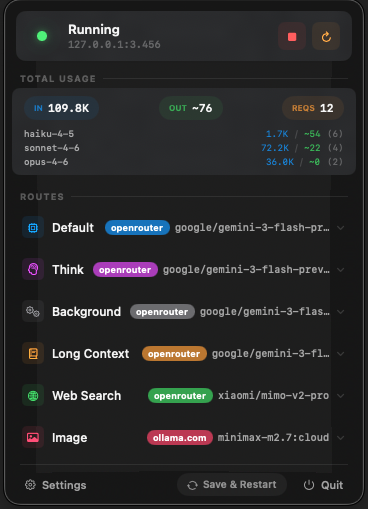
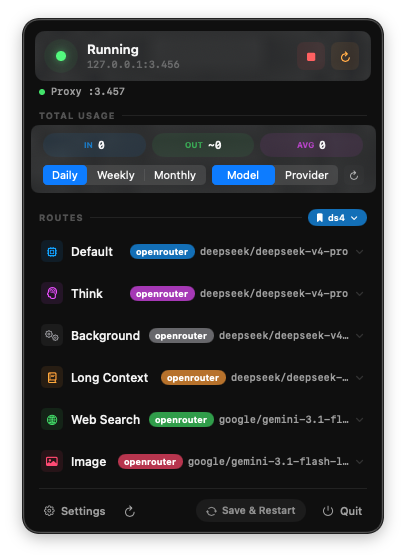
docs: refresh app screenshots

diff --git a/docs/index.html b/docs/index.html
@@ -91,8 +91,13 @@
     <!-- Visual Showcase -->
     <section class="pb-24 px-6 overflow-hidden">
         <div class="max-w-5xl mx-auto">
-            <div class="relative rounded-2xl shadow-2xl border border-gray-100 overflow-hidden bg-apple-light p-4 md:p-8">
-                <img src="assets/ccr-menu-bar.png" alt="CCR Menu Bar Screenshot" class="rounded-lg shadow-lg mx-auto border border-gray-200">
+            <div class="grid grid-cols-1 lg:grid-cols-[0.75fr_1.35fr] gap-6 items-start">
+                <div class="relative rounded-2xl shadow-2xl border border-gray-100 overflow-hidden bg-apple-light p-4 md:p-6">
+                    <img src="assets/ccr-menu-bar.png" alt="CCR Menu Bar menu bar popup" class="rounded-lg shadow-lg mx-auto border border-gray-200">
+                </div>
+                <div class="relative rounded-2xl shadow-2xl border border-gray-100 overflow-hidden bg-apple-light p-4 md:p-6">
+                    <img src="assets/ccr-settings.png" alt="CCR Menu Bar settings window" class="rounded-lg shadow-lg mx-auto border border-gray-200">
+                </div>
             </div>
         </div>
     </section>
@@ -148,11 +153,11 @@
             <div class="space-y-6">
                 <div class="flex gap-4">
                     <div class="flex-shrink-0 w-8 h-8 rounded-full bg-apple-blue text-white flex items-center justify-center font-bold">1</div>
-                    <p class="text-lg">Download the latest <span class="font-semibold">CCR Menu Bar.app</span> from the GitHub releases page.</p>
+                    <p class="text-lg">Download the latest <span class="font-semibold">CCR.Menu.Bar.zip</span> from the GitHub releases page.</p>
                 </div>
                 <div class="flex gap-4">
                     <div class="flex-shrink-0 w-8 h-8 rounded-full bg-apple-blue text-white flex items-center justify-center font-bold">2</div>
-                    <p class="text-lg">Drag the application to your <span class="font-semibold">Applications</span> folder.</p>
+                    <p class="text-lg">Unzip it and drag <span class="font-semibold">CCR Menu Bar.app</span> to your <span class="font-semibold">Applications</span> folder.</p>
                 </div>
                 <div class="flex gap-4">
                     <div class="flex-shrink-0 w-8 h-8 rounded-full bg-apple-blue text-white flex items-center justify-center font-bold">3</div>
@@ -160,7 +165,7 @@
                 </div>
             </div>
             <p class="mt-12 p-4 bg-yellow-50 rounded-lg border border-yellow-100 text-sm text-yellow-800">
-                <strong>Note:</strong> Since this app is distributed outside the App Store, you might need to right-click and select "Open" for the first launch to bypass macOS Gatekeeper.
+                <strong>Note:</strong> Release builds are for Apple Silicon Macs running macOS 14.0 or later. If macOS blocks the app, open <strong>System Settings → Privacy & Security</strong> and choose <strong>Open Anyway</strong>.
             </p>
         </div>
     </section>

diff --git a/README.md b/README.md
@@ -17,6 +17,12 @@ A native macOS menu bar application for managing [Claude Code Router (CCR)](http
 
 ## Features
 
+## Screenshots
+
+| Menu Bar Popup | Settings |
+| --- | --- |
+| <img src="assets/ccr-menu-bar.png" alt="CCR Menu Bar menu bar popup" width="360"> | <img src="assets/ccr-settings.png" alt="CCR Menu Bar settings window" width="520"> |
+
 ### Menu Bar Control
 - Live server status indicator (green = running, white = stopped)
 - One-click Start / Stop / Restart
